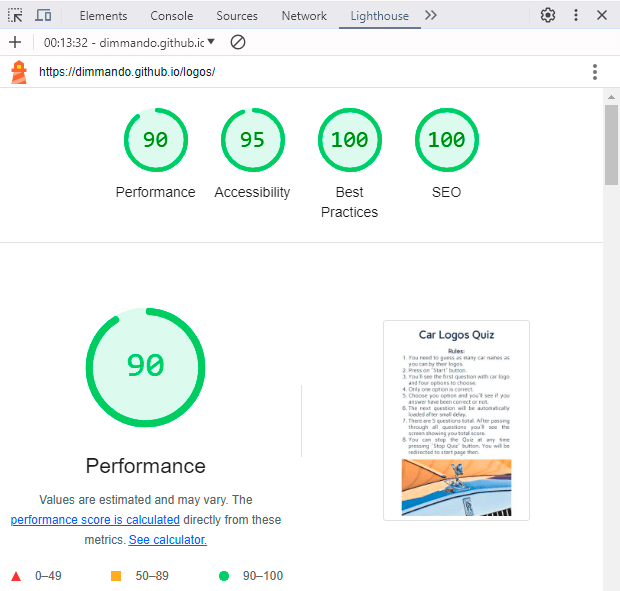
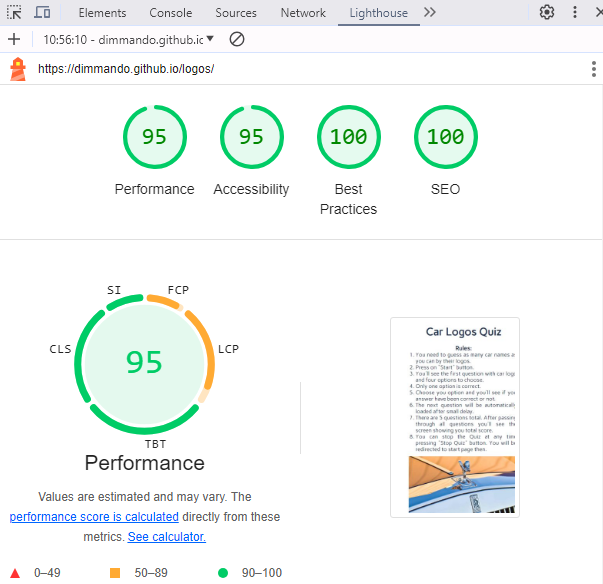
Add Lighthouse desktop version testing

diff --git a/TESTING.md b/TESTING.md
@@ -56,8 +56,13 @@ In order to confirm the correct functionality, responsiveness, and appearance:
     
   ### Home page
 
-  ![Home Page Lighthouse](documentation/lighthouse_home_page.png)
+  + Mobile version
 
+  ![Home Page Lighthouse Mobile](documentation/lighthouse_home_page.png)
+
+  + Desktop version
+  
+  ![Home Page Lighthouse Desktop](documentation/lighthouse_home_page_desk.png)
 ---
 
 ## Testing user stories
